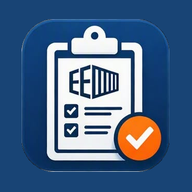
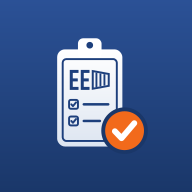
v4.40 + s19 - Iconite redesenate la calitate mare (GestiuneEE si Sofer EE)

diff --git a/sofer/sofer.js b/sofer/sofer.js
@@ -26,7 +26,7 @@ import { openHistoryScreen } from '../pv/js/screens-history.js';
 import { buildComenziActive } from '../pv/js/screens-comenzi.js';
 import { openSettingsScreen } from '../pv/js/screens-setup.js';
 
-export const SOFER_VERSION = 's18';
+export const SOFER_VERSION = 's19';
 
 const KEY_ZI = 'ee-sofer-zi'; // ziua deschisa: { zi, coleg, carId, km, trasee, zile, zona, ordine, ruta }
 const KEY_ULTIMA = 'ee-sofer-ultima'; // ultimele alegeri (masina, traseu, zona) — precompletare

diff --git a/sofer/sw.js b/sofer/sw.js
@@ -6,7 +6,7 @@
 
 // {cache:'reload'/'no-store'}: GitHub Pages lasa browserul sa tina fisierele 10 minute; fara asta, dupa un Push
 // telefonul putea lua tot varianta veche (gasit 03.10: ordinea butoanelor nu se schimba).
-const VERSIUNE = 'sofer-ee-s18';
+const VERSIUNE = 'sofer-ee-s19';
 const PV = [
   'css/styles.css', 'css/print.css',
   'js/db.js', 'js/utils.js', 'js/router.js', 'js/components.js', 'js/catalog-defaults.js',

diff --git a/sw.js b/sw.js
@@ -1,7 +1,7 @@
 // sw.js — GestiuneEE. Ține aplicația instalabilă și o pornește repede,
 // dar NU păstrează niciodată în memorie datele din Supabase: acelea trebuie
 // să fie mereu proaspete.
-const VERSIUNE = 'gestiune-ee-v4.39';
+const VERSIUNE = 'gestiune-ee-v4.40';
 const SCHELET = [
   './',
   './index.html',
